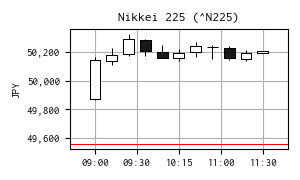
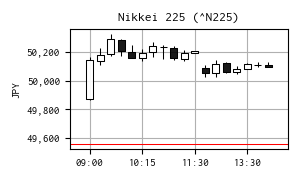
update

diff --git a/modules/observatory.py b/modules/observatory.py
@@ -31,14 +31,23 @@ class ObservationManager:
     def getObs(self) -> np.ndarray:
         # 観測値（特徴量）用リスト
         list_feature = list()
+
         # ---------------------------------------------------------------------
-        # 1. MAΔS1（MAΔ の符号反転シグナル）
+        # 1. MA1（移動平均 1）
+        ma_1 = self.provider.getMA1()
+        list_feature.append(ma_1)
+        # ---------------------------------------------------------------------
+        # 2. MA2（移動平均 2）
+        ma_2 = self.provider.getMA2()
+        list_feature.append(ma_2)
+        # ---------------------------------------------------------------------
+        # 3. MAΔS1（MAΔ の符号反転シグナル）
         signal_mad_sign = self.provider.getMADSignal()
         signal_mad_1 = float(signal_mad_sign.value)  # 数値化
         self.deque_signal_mad.append(signal_mad_1)
         list_feature.append(signal_mad_1)
         # ---------------------------------------------------------------------
-        # 2. MAΔS2（MAΔ の符号反転シグナル）ひとつ前
+        # 4. MAΔS2（MAΔ の符号反転シグナル）ひとつ前
         # ---------------------------------------------------------------------
         if len(self.deque_signal_mad) > 1:
             signal_mad_2 = self.deque_signal_mad[-2]
@@ -46,7 +55,7 @@ class ObservationManager:
             signal_mad_2 = 0.0
         list_feature.append(signal_mad_2)
         # ---------------------------------------------------------------------
-        # 3. Low Volatility Flag - ボラティリティがしきい値より低ければフラグを立てる
+        # 5. Low Volatility Flag - ボラティリティがしきい値より低ければフラグを立てる
         if self.provider.isLowVolatility():
             flag_vola_low = 1
         else:
@@ -54,19 +63,19 @@ class ObservationManager:
 
         list_feature.append(flag_vola_low)
         # ---------------------------------------------------------------------
-        # 4. 移動 IQR
+        # 6. 移動 IQR
         miqr = self.provider.miqr
         list_feature.append(miqr)
         # ---------------------------------------------------------------------
-        # 5. ポジション情報
+        # 7. ポジション情報
         value_position = float(self.provider.position.value)  # 数値化
         list_feature.append(value_position)
         # ---------------------------------------------------------------------
-        # 6. 含損益
+        # 8. 含損益
         profit_unrealized = self.provider.get_profit()
         list_feature.append(profit_unrealized)
         # ---------------------------------------------------------------------
-        # 7. 含損益M（含み損益最大）
+        # 9. 含損益M（含み損益最大）
         profit_unrealized_max = self.provider.profit_max
         list_feature.append(profit_unrealized_max)
         # =====================================================================
@@ -76,6 +85,8 @@ class ObservationManager:
     @staticmethod
     def getObsList() -> list:
         return [
+            "MA1",
+            "MA2",
             "クロスS1",
             "クロスS2",
             "低ボラ",

diff --git a/widgets/charts.py b/widgets/charts.py
@@ -262,10 +262,14 @@ class ObsChart(ScrollArea):
 
     def updateData(self, df: pd.DataFrame, title: str = ""):
         self.removeAxes()
-        n = len(df.columns)
         list_height_ratio = list()
-        for colname in df.columns:
-            if colname == "Price":
+        list_col = list(df.columns)
+        if "MA2" in list_col:
+            idx_ma_2 = list_col.index("MA2")
+            list_col.pop(idx_ma_2)
+        n = len(list_col)
+        for colname in list_col:
+            if colname in ["Price", "MA1"]:
                 list_height_ratio.append(2)
             elif colname in ["低ボラ", "建玉", "損益M"]:
                 list_height_ratio.append(0.5)
@@ -282,28 +286,37 @@ class ObsChart(ScrollArea):
             ax[i].xaxis.set_major_formatter(mdates.DateFormatter("%H:%M"))
             ax[i].grid()
 
-        for i, colname in enumerate(df.columns):
+        for i, colname in enumerate(list_col):
             if colname == "Price":
                 ax[i].plot(df[colname], linewidth=0.5)
                 ax[i].yaxis.set_major_formatter(ticker.StrMethodFormatter("{x:,.0f}"))
+                ax[i].set_ylabel(colname)
+            elif colname == "MA1":
+                ax[i].plot(df[colname], linewidth=0.5, color="magenta")
+                ax[i].plot(df["MA2"], linewidth=0.5, color="darkgreen")
+                ax[i].yaxis.set_major_formatter(ticker.StrMethodFormatter("{x:,.0f}"))
+                ax[i].set_ylabel("移動平均")
             elif colname == "低ボラ":
                 x = df.index
                 y = df[colname]
                 ax[i].fill_between(x, 0, y, where=y == 1.0, color='green', alpha=0.4, interpolate=True)
+                ax[i].set_ylabel(colname)
             elif colname == "建玉":
                 x = df.index
                 y = df[colname]
                 ax[i].fill_between(x, 0, y, where=y > 0.0, color='green', alpha=0.4, interpolate=True)
                 ax[i].fill_between(x, 0, y, where=y < 0.0, color='magenta', alpha=0.4, interpolate=True)
                 ax[i].set_ylim(-1.1, 1.1)
+                ax[i].set_ylabel(colname)
             elif colname == "損益M":
                 ax[i].plot(df[colname], linewidth=0.5)
                 _, y_max = ax[i].get_ylim()
                 ax[i].set_ylim(-0.1, y_max)
+                ax[i].set_ylabel(colname)
             else:
                 ax[i].plot(df[colname], linewidth=0.5)
+                ax[i].set_ylabel(colname)
 
-            ax[i].set_ylabel(colname)
         ax[0].set_title(title)
         # plt.tight_layout()
 

diff --git a/modules/feature_provider.py b/modules/feature_provider.py
@@ -31,6 +31,8 @@ class FeatureProvider:
         self.volume = None
         self.vwap = None
         # 移動平均差用変数
+        self.ma_1 = None
+        self.ma_2 = None
         self.mad = None
         self.mad_sign_current = None
         self.mad_sign_signal = None
@@ -76,6 +78,8 @@ class FeatureProvider:
         self.volume = 0
         self.vwap = 0
         # 移動平均差用変数
+        self.ma_1 = 0
+        self.ma_2 = 0
         self.mad = 0
         self.mad_sign_current = SignalSign.ZERO
         self.mad_sign_signal = SignalSign.ZERO
@@ -132,9 +136,7 @@ class FeatureProvider:
         移動平均差 (Moving Average Difference = MAD)
         :return:
         """
-        ma1 = self.getMA(self.PERIOD_MAD_1)
-        ma2 = self.getMA(self.PERIOD_MAD_2)
-        mad_new = ma1 - ma2
+        mad_new = self.ma_1 - self.ma_2
         if 0 < mad_new:
             signal_sign_new = SignalSign.POSITIVE
         elif mad_new < 0:
@@ -163,7 +165,6 @@ class FeatureProvider:
             q1 = percentile(prices_recent, 0.25)
             q3 = percentile(prices_recent, 0.75)
             return q3 - q1
-
 
     def _calc_vwap(self) -> float:
         if self.volume_prev is None:
@@ -227,6 +228,12 @@ class FeatureProvider:
         else:
             recent_prices = list(self.deque_price)[-period:]
             return sum(recent_prices) / period
+
+    def getMA1(self) -> float:
+        return self.ma_1
+
+    def getMA2(self) -> float:
+        return self.ma_2
 
     def getMAD(self) -> float:
         """
@@ -348,6 +355,8 @@ class FeatureProvider:
         self.volume = float(volume)
         self.vwap = self._calc_vwap()  # VWAP
 
+        self.ma_1 = self.getMA(self.PERIOD_MAD_1)
+        self.ma_2 = self.getMA(self.PERIOD_MAD_2)
         self.mad, mad_sign = self._calc_mad()  # 移動平均差
         if self.mad_sign_current != mad_sign:
             self.mad_sign_signal = mad_sign
@@ -364,7 +373,7 @@ class FeatureProvider:
         self.emad_sign_current = emad_sign
         """
 
-        self.miqr = self._calc_miqr() # 移動IQR
+        self.miqr = self._calc_miqr()  # 移動IQR
 
     def transaction_close(self, profit):
         """
